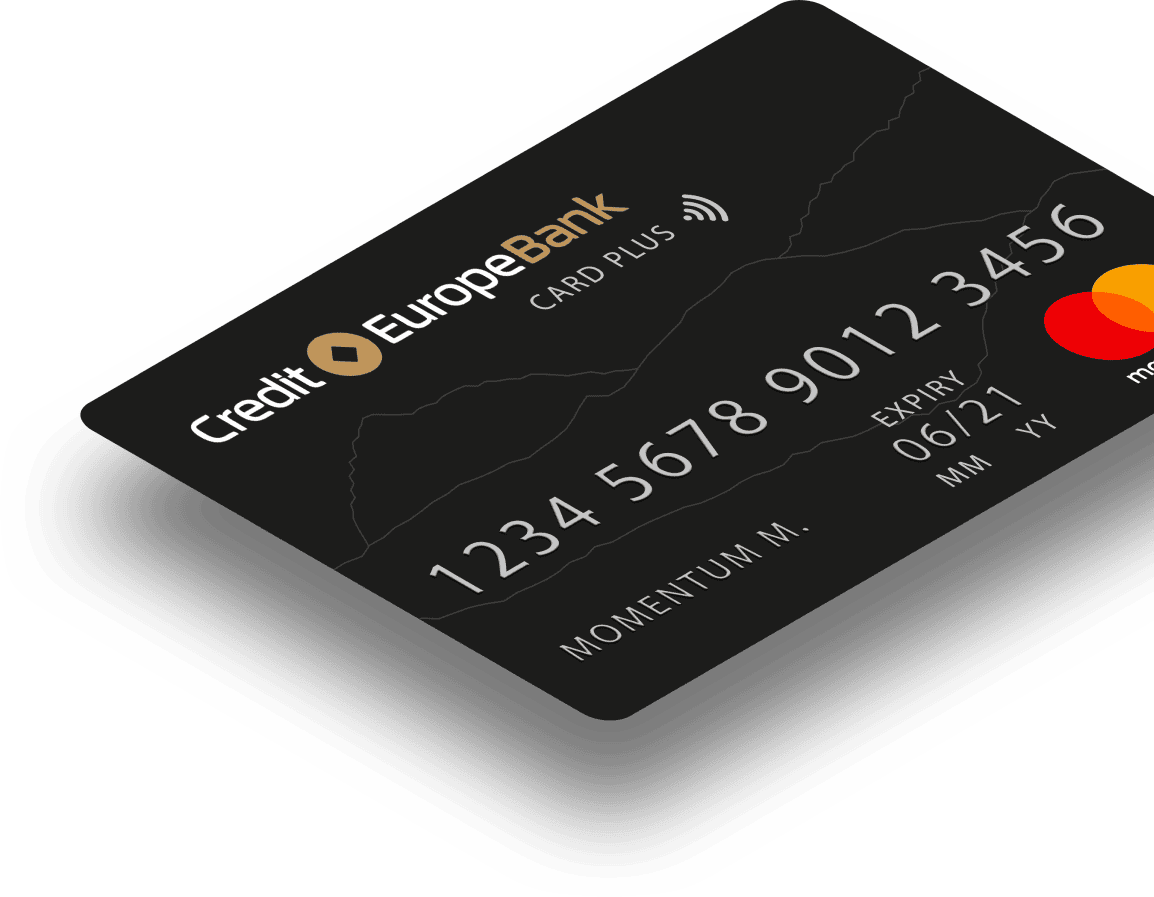
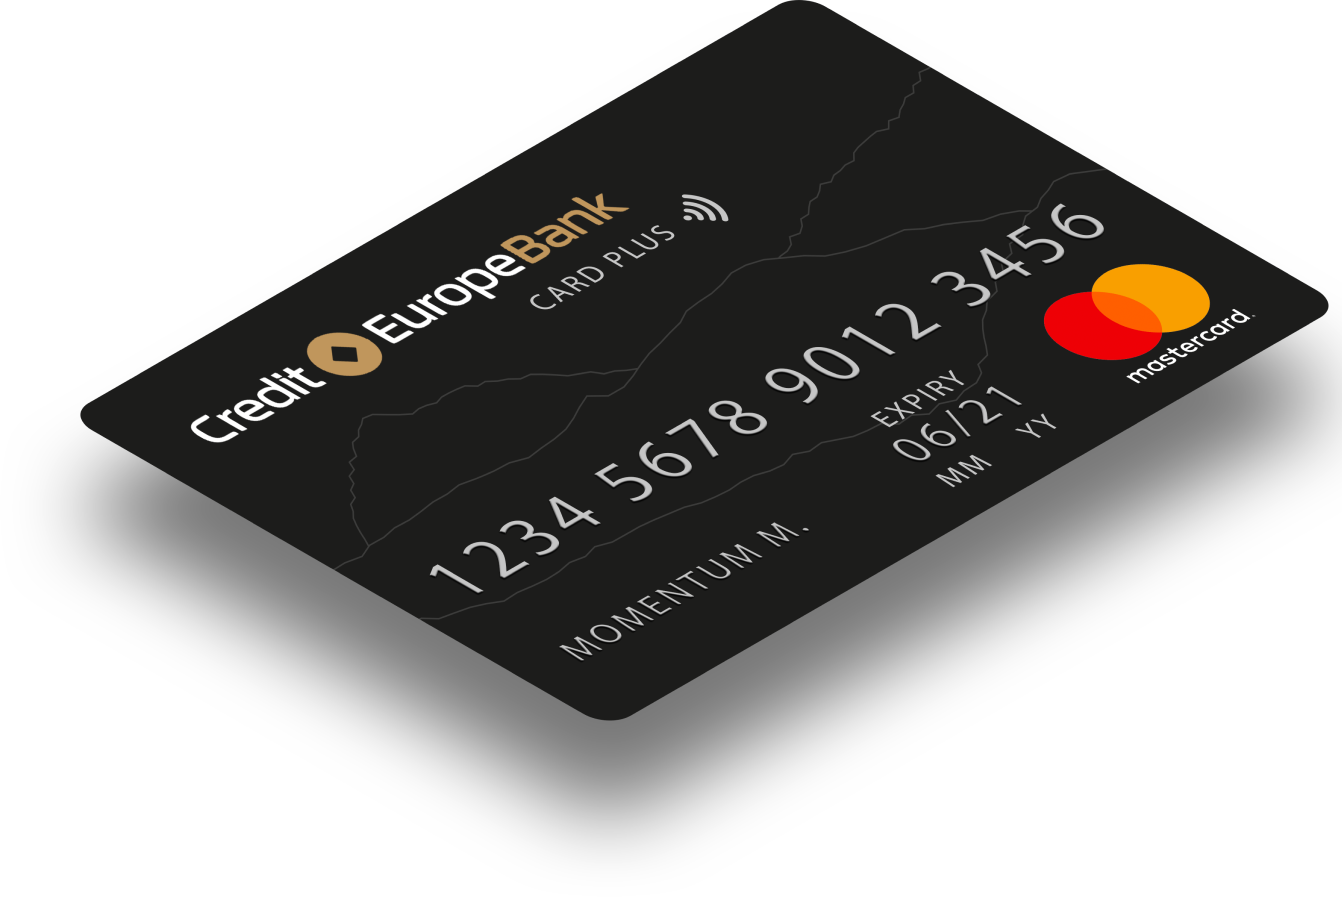
Added responsive ofr 1440 and 1024

diff --git a/src/components/HeroSection/styles.scss b/src/components/HeroSection/styles.scss
@@ -13,7 +13,6 @@
 	}
 
 	&__content {
-		// position: relative;
 		display: grid;
 		grid-template-columns: 1fr 1fr;
 		align-items: center;
@@ -43,20 +42,18 @@
   
 	&__features {
 		display: grid;
-		grid-template-columns: 89px 127px; // repeat(2, 100px);
+		grid-template-columns: 89px 127px;
 		gap: 42px;
 		margin-bottom: 69px;
 	}
   
 	&__image {
-		//position: relative;
 		position: absolute;
-		right: 0; // 57px;
-		top: 66px; // 73px;
+		right: -187px;
+		top: 66px;
 		
 		img {
 			width: 100%;
-			// transform: perspective(1000px) rotateY(-15deg);
 		}
 	}
 }
@@ -77,6 +74,51 @@
 		color: var(--color-gray-base);
 		font-size: 14px;
 		line-height: 20px;
+	}
+}
+
+@media (max-width: 1440px) {
+	.premium-card {
+		&__image {
+			top: 184px;
+			
+			img {
+				width: 915px;
+				height: 500px;
+			}
+		}
+
+		&__content {
+			grid-template-columns: 2fr 1fr;
+		}
+
+		&__header {
+			&--subtitle {
+				font-size: 18px;
+			}
+		}
+	}
+}
+
+@media (max-width: 1024px) {
+	.premium-card {
+		&__image {
+			right: 0;
+			top: 250px;
+			z-index: -1;
+			opacity: 0.3;
+		}
+
+		&__features {
+			grid-template-columns: 1fr 1fr;
+			margin-bottom: 40px;
+		}
+
+		&__header {
+			&--title {
+				font-size: 86px;
+			}
+		}
 	}
 }
 

diff --git a/src/components/PromoSection/styles.scss b/src/components/PromoSection/styles.scss
@@ -64,8 +64,6 @@
 		img {
 			width: 588px;
     		height: 376px;
-			// width: 100%;
-			// height: auto;
 		}
 	}
 
@@ -112,4 +110,43 @@
     margin-top: 27px;
 	font-size: 14px;
 	line-height: 26px;
+}
+
+@media (max-width: 1440px) {
+	.promo {
+		padding-right: unset;
+	}
+}
+
+@media (max-width: 1024px) {
+	.card {
+		&-showcase {
+			gap: 50px;
+		}
+
+		&-image {
+			img {
+				width: 400px;
+				height: 250px;
+			}
+		}
+
+		&-types {
+			margin-bottom: 20px;
+		}
+
+		&-item {
+			&__value, &__title {
+				font-size: 12px;
+			}
+		}
+	}
+
+	.apply-button {
+		margin-bottom: 20px;
+	}
+
+	.more-details {
+		margin-top: 10px;
+	}
 }

diff --git a/src/components/FooterSection/styles.scss b/src/components/FooterSection/styles.scss
@@ -83,3 +83,28 @@
 		font-size: 24px;
 	}
 }
+
+@media (max-width: 1440px) {
+	.footer {
+		padding-right: unset;
+	}
+}
+
+@media (max-width: 1024px) {
+	.footer {
+		&__row {
+			flex-direction: column;
+		}
+
+		&__links {
+			margin: 20px 0;
+			gap: 50px;
+		}
+
+		&__logo {
+			display: flex;
+			gap: 20px;
+			align-items: flex-end;
+		}
+	}
+}

diff --git a/src/assets/styles/layouts.scss b/src/assets/styles/layouts.scss
@@ -3,3 +3,18 @@
 	padding-left: 461px;
 	padding-right: 450px;
 }
+
+@media (max-width: 1440px) {
+	.container {
+		margin: 0 auto;
+		width: 1100px;
+		padding-left: unset;
+		padding-right: unset;
+	}
+}
+
+@media (max-width: 1024px) {
+	.container {
+		width: 820px;
+	}
+}

diff --git a/src/components/HeaderSection/HeaderSection.vue b/src/components/HeaderSection/HeaderSection.vue
@@ -4,7 +4,6 @@ import BurgerButton from '@/components/BurgerButton/BurgerButton.vue'
 import { useSidebar } from '@/composables/useSidebar.js'
 
 const { isOpen, toggleSidebar } = useSidebar()
-
 </script>
 
 <template>

diff --git a/src/components/Button/styles.scss b/src/components/Button/styles.scss
@@ -46,3 +46,17 @@
 		}
 	}
 }
+
+@media (max-width: 1024px) {
+	.button {
+		&--main {
+			font-size: 18px;
+			padding: 20px 30px;
+		}
+
+		&--tab {
+			padding: unset;
+			font-size: 16px;
+		}
+	}
+}

diff --git a/src/components/Sidebar/Sidebar.vue b/src/components/Sidebar/Sidebar.vue
@@ -1,5 +1,5 @@
 <script setup>
-import { inject, nextTick } from 'vue'
+import { inject, onMounted, onUnmounted } from 'vue'
 
 const modal = inject('modal')
 const { show: showModal } = modal

diff --git a/src/components/SupportSection/styles.scss b/src/components/SupportSection/styles.scss
@@ -64,6 +64,14 @@
 	}
 }
 
+@media (max-width: 1024px) {
+	.responsibility {
+		&__list {
+			flex: 0 0 30%;
+		}
+	}
+}
+
 
 @media (max-width: 768px) {
     .personal-assistant {

diff --git a/src/components/ServiceSection/styles.scss b/src/components/ServiceSection/styles.scss
@@ -53,3 +53,11 @@
 		margin-bottom: 34px;
 	}
 }
+
+@media (max-width: 1024px) {
+	.service {
+		&__cards {
+			grid-template-columns: repeat(2, 1fr);
+		}
+	}
+}
